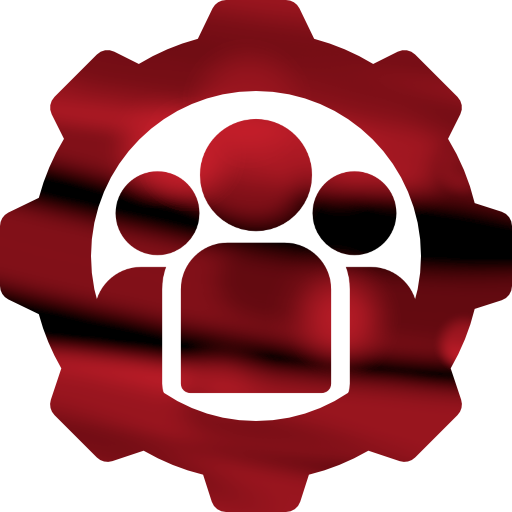
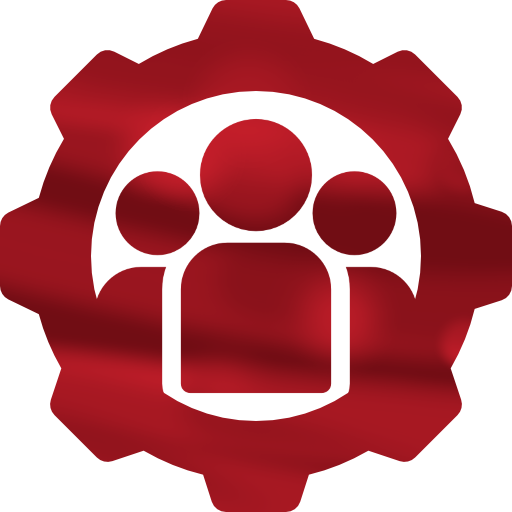
update
Readme and ICO

diff --git a/README.md b/README.md
@@ -20,9 +20,13 @@ You must be developer, then add new application and copy TOKEN to **.env**.
 1. OAuth2 -> URL Generator, check BOT and Manage Roles. Then copy URL and run it.
 2. Bot -> Create New
 3. Bot -> Privileged Gateway Intents, check Presence Intent, Server Members Intent and Message Content Intent.
-4. Can use service like [Replit](https://replit.com) to host script.
+4. Copy TOKEN
+5. Deploy. Can use service like [Replit](https://replit.com) to host script.
 
-### Use
+### Create invite/install BOT link
+App/OAuth2 -> URL Generator -> check BOT -> Permissions: Manage Roles, Send Messages.
+
+### Use on DC
 After add bot thru OAuth2 URL, enter server roles and move up and down to choose
 which roles bot can give or remove. All roles below bot's role are manageable for bot.
 Now you can add bot's role to channel of choice.
